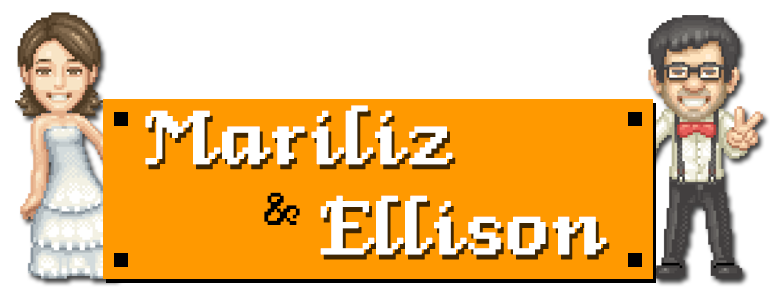
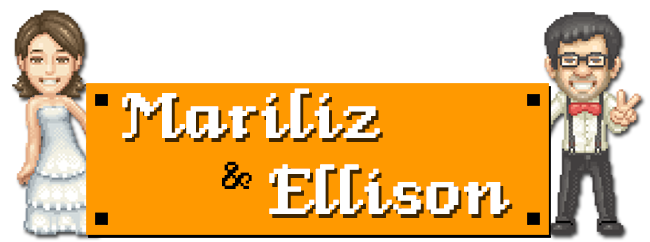
css fixes :smile:

diff --git a/css/main.css b/css/main.css
@@ -180,7 +180,6 @@ article {
 .main article h1 {
   font-family: 'dosregular';
   font-size: 1em;
-  line-height: 1em;
 }
 
 header {
@@ -242,34 +241,6 @@ section p.very-large {
 
 @media only screen and (min-width: 768px) {
 
-/* ====================
-    WIDE: CSS3 Effects
-   ==================== */
-
-    .header-container,
-    .main aside {
-        -webkit-box-shadow: 0 5px 10px #F2F5FF;
-           -moz-box-shadow: 0 5px 10px #F2F5FF;
-                box-shadow: 0 5px 10px #F2F5FF;
-    }
-
-/* ============
-    WIDE: Menu
-   ============ */
-
-    .title {
-        float: left;
-    }
-
-    nav {
-        float: right;
-        width: 38%;
-    }
-
-/* ============
-    WIDE: Main
-   ============ */
-
     .main {
       min-height: 1000px;
     }
@@ -287,7 +258,6 @@ section p.very-large {
     .main article h1 {
       font-family: 'dosregular';
       font-size: 4em;
-      line-height: 1em;
     }
 
     header {
@@ -320,8 +290,7 @@ section p.very-large {
     }
 
     .logo img{
-      width: 774px;
-      height: 288px;
+      width: 650px;
       margin-top: 3em;
     }
 
